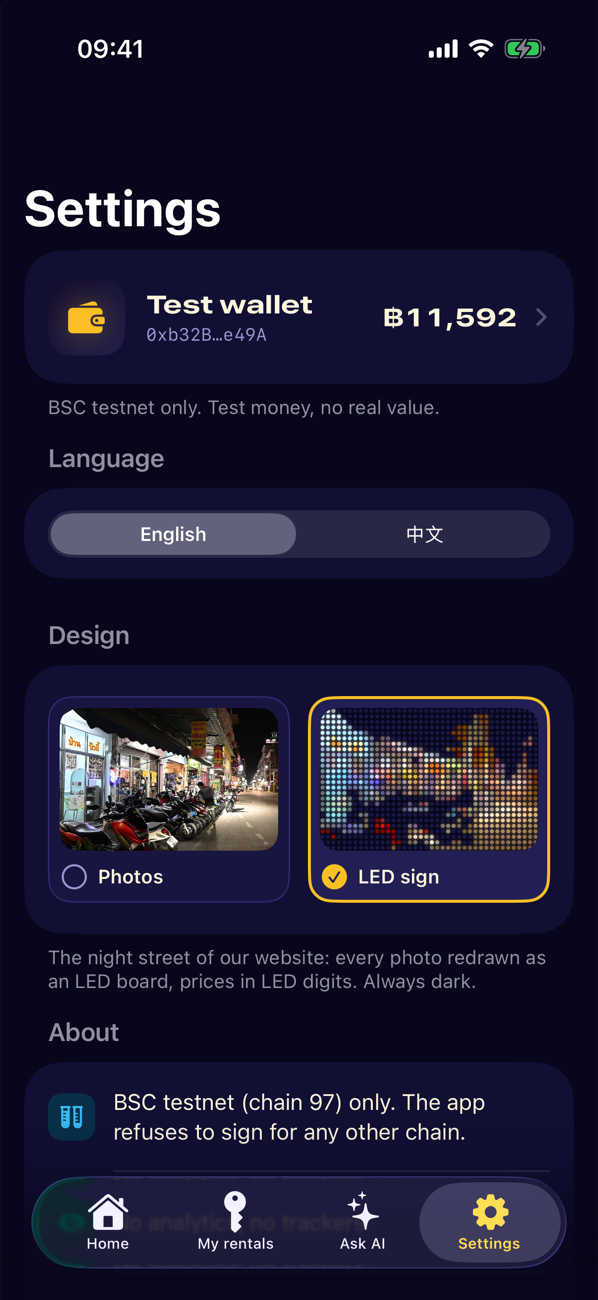
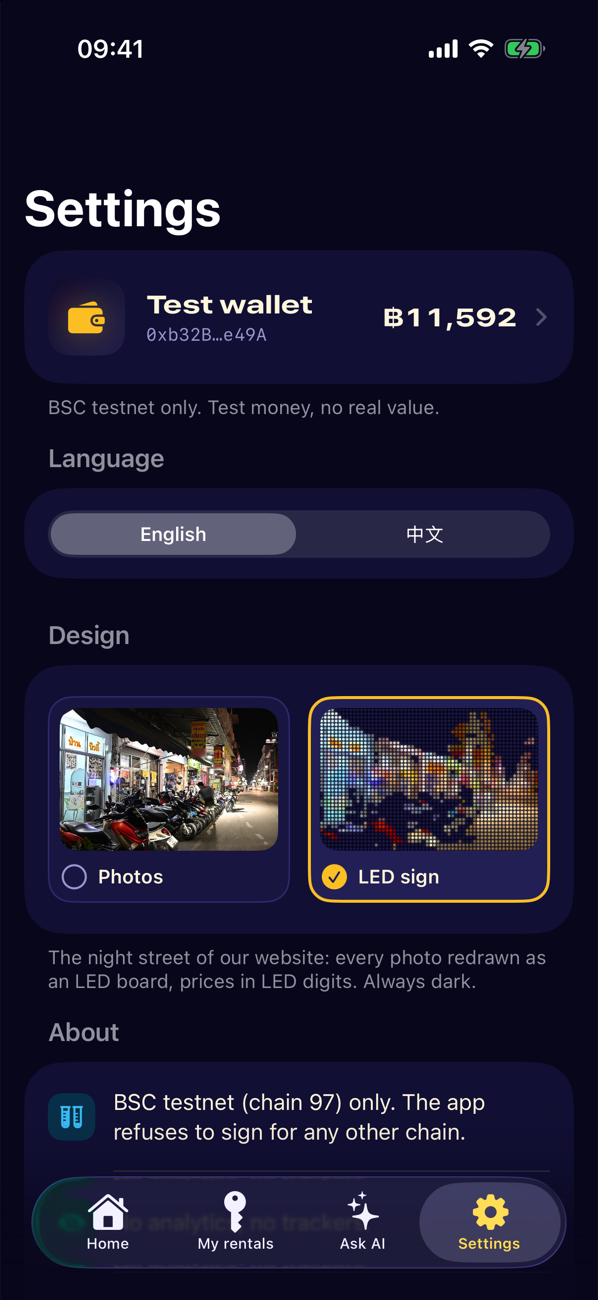
ios: LED sign: finer dots (70 across a photo, 34 on thumbnails, 60 in the Settings preview)

Changed region(s): [[0.5117, 0.5231, 0.903, 0.6769]]

diff --git a/ios/KeyEscrow/Design/LED.swift b/ios/KeyEscrow/Design/LED.swift
@@ -42,7 +42,7 @@ enum LEDPalette {
 enum DotMatrix {
     private static let cache = NSCache<NSString, UIImage>()
 
-    static func image(asset: String, cols: Int = 42) -> UIImage? {
+    static func image(asset: String, cols: Int = 70) -> UIImage? {
         let key = "\(asset)@\(cols)" as NSString
         if let hit = cache.object(forKey: key) { return hit }
         guard let src = UIImage(named: asset)?.cgImage else { return nil }
@@ -52,7 +52,7 @@ enum DotMatrix {
         return out
     }
 
-    static func render(_ src: CGImage, cols: Int, rows: Int, cell: CGFloat = 18) -> UIImage? {
+    static func render(_ src: CGImage, cols: Int, rows: Int, cell: CGFloat = 16) -> UIImage? {
         var px = [UInt8](repeating: 0, count: cols * rows * 4)
         let ok = px.withUnsafeMutableBytes { buf -> Bool in
             guard let ctx = CGContext(data: buf.baseAddress, width: cols, height: rows, bitsPerComponent: 8, bytesPerRow: cols * 4,

diff --git a/ios/KeyEscrow/Design/Photos.swift b/ios/KeyEscrow/Design/Photos.swift
@@ -256,7 +256,7 @@ struct ListingThumb: View {
     var symbol = "key.horizontal.fill"
     var body: some View {
         Group {
-            if DesignMode.led, let id = listingId, let asset = PhotoCatalog.asset(forListing: id), let img = DotMatrix.image(asset: asset, cols: 22) {
+            if DesignMode.led, let id = listingId, let asset = PhotoCatalog.asset(forListing: id), let img = DotMatrix.image(asset: asset, cols: 34) {
                 Image(uiImage: img).resizable().scaledToFill()
             } else if let id = listingId, let asset = PhotoCatalog.asset(forListing: id), let img = PhotoCatalog.thumbnail(asset, side: side * 3) {
                 Image(uiImage: img).resizable().scaledToFill()

diff --git a/ios/KeyEscrow/Features/Settings/SettingsView.swift b/ios/KeyEscrow/Features/Settings/SettingsView.swift
@@ -108,7 +108,7 @@ struct SettingsView: View {
         } label: {
             VStack(alignment: .leading, spacing: 8) {
                 Group {
-                    if d == .led, let led = DotMatrix.image(asset: PhotoCatalog.hero, cols: 40) {
+                    if d == .led, let led = DotMatrix.image(asset: PhotoCatalog.hero, cols: 60) {
                         Image(uiImage: led).resizable().scaledToFill()
                     } else {
                         Image(PhotoCatalog.hero).resizable().scaledToFill()
